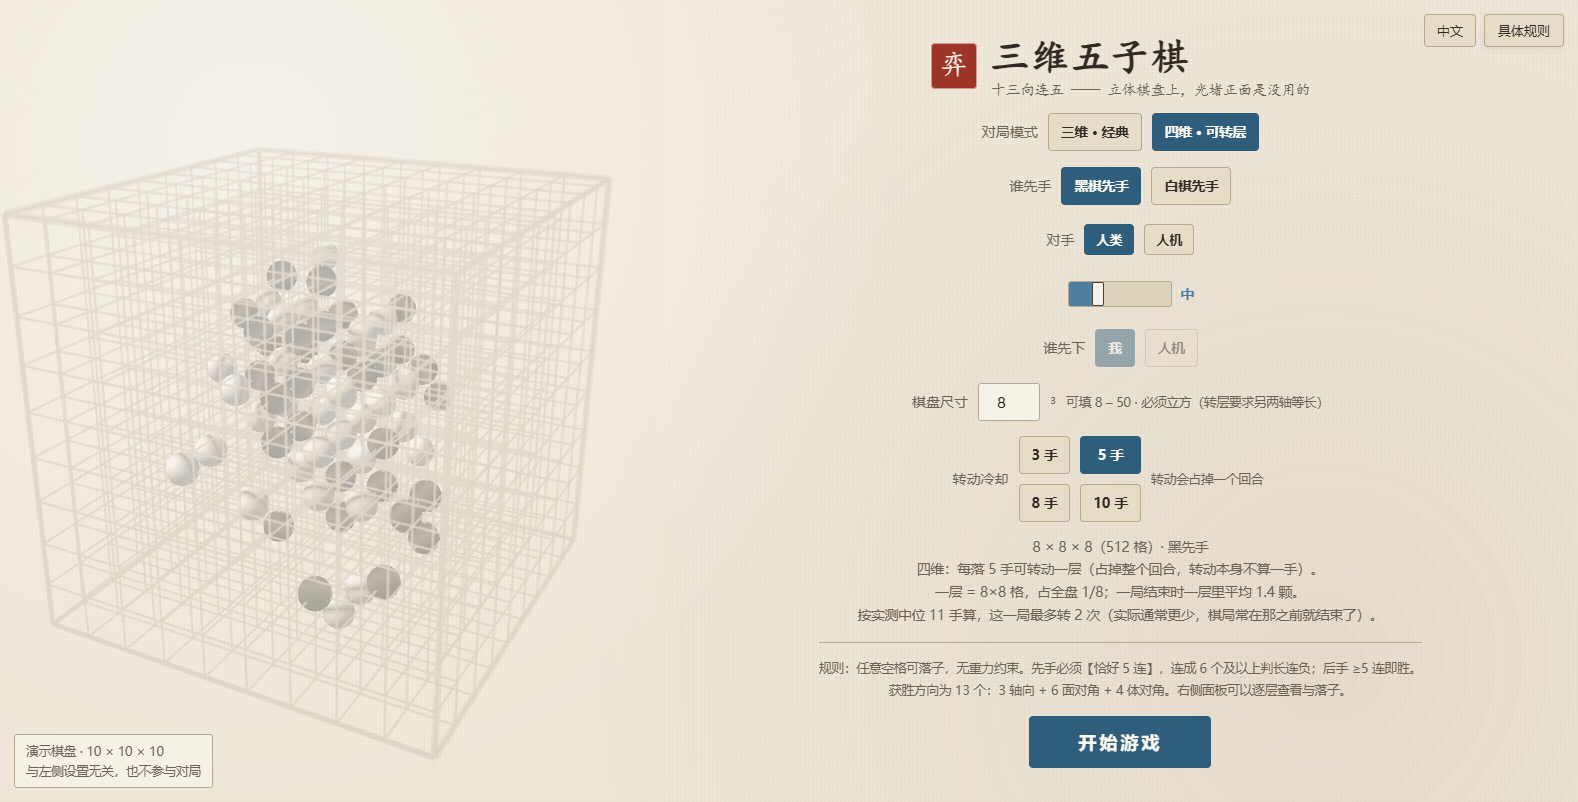
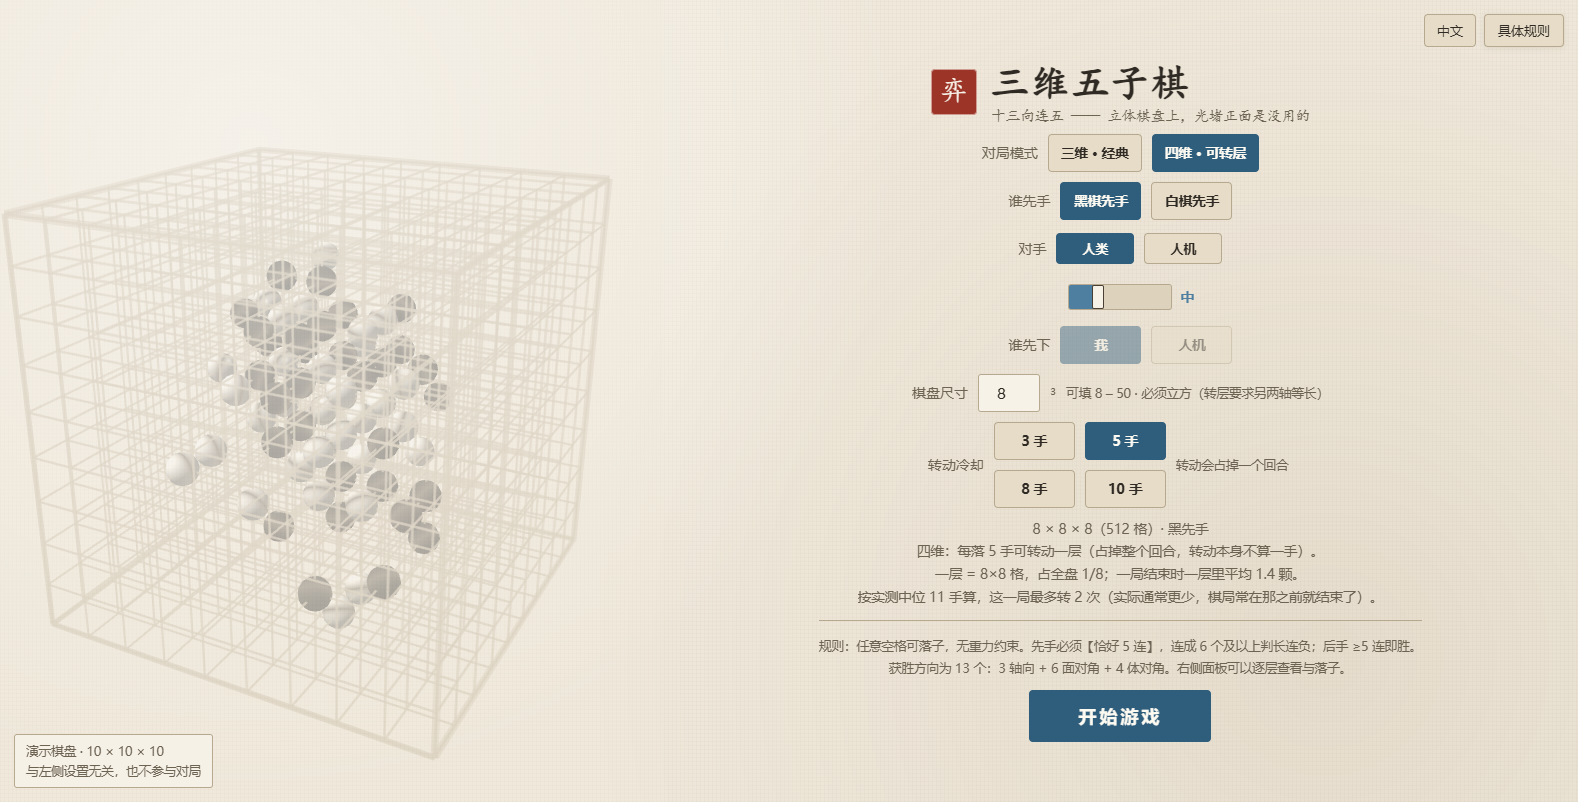
起始界面：行标同宽、按键等宽，行与行对齐（v2.10.6）
用户说"六国语言按键统一居中，不要长度上居中，按键要对齐，
每一个按键的长度不一定要和文字等长" —— 也就是现在每个键的宽度跟着文字走、
加上每行各自居中，整屏看着参差。两条规则解决：

1. **按键等宽**：`#setup .row button { min-width: 6em }`。短文案的键就都一样宽了；
   真长的（「三轴联动」、俄语那几条）还会自己撑开 —— 不能为了整齐把字挤到换行。

2. **行标同宽**：宽度按【当前语言里最长的那一条】实测，写进 `#setup` 的 `--labelW`
   （新增 `syncLabelWidth`，在 openSetup / applyLang / resize 时各量一次）。
   写死一个数不行 —— 六种语言的最长行标差一倍以上（中文「转动冷却」56px，
   俄语那条 150px 以上）。**用实测而不是 CSS**：`#setup` 的行是各自独立的 flex，
   CSS 里没有天然的"共用第一列"可套；改成 grid 要把整块 HTML 拍平，代价太大。

## 顺带还了一笔欠账

加完人机那两行之后，**英文和法语的「开始游戏」被挤出了 800px 高的视口**（法语超出 47px）——
这是我 v2.10.3/2.10.4 加行时欠下的，之前只看中文截图所以没发现。
这一版把整列收紧约 70px：行距 14→10、行槽 40→38、英文 #sizeSummary 108→96。
行高本身没动，"切模式时整列不跳"那条不变量不受影响。

browser-check 293 → 294，新增的那条断言**六种语言全量量一遍取最差的那个**
（第一版只量中文，过了，而英文截图里按钮是切掉的）。它还要先关掉触屏模拟再量：
前面测触屏时 pointer:coarse 成立、CSS 小屏那一档一直开着，按键和标题都小一档，
量出来比真实排版矮 41px，断言会变成空转 —— "测量环境没复位"这个坑写进 README 了。
量完把视口和触屏还原：不还原的话后面几张截图会在临时视口下拍
（实测过一次，7-人机对战.png 整张变成了 1280 宽）。

断言总数 40713 → 40714。

Changed region(s): [[0.4968, 0.0312, 0.9005, 0.9663]]

diff --git a/Web_Gomoku3D/index.html b/Web_Gomoku3D/index.html
@@ -321,11 +321,12 @@
   #setup {
     position: fixed; left: 42%; right: 0; top: 0; bottom: 0; z-index: 50;
     display: flex; flex-direction: column; align-items: center;
-    /* 【18 → 14】加「对手」和「谁先下」两行时，这一屏在 1280×800 的英文下把
-       「开始游戏」挤出了可视区（改动前按钮下面还有 40 多像素余量，截图对拍过）。
-       行距收 4px × 9 个间隔 ≈ 36px，正好把两行的高度还回来，而且不动行高本身 ——
-       按钮尺寸、每行 40px 的槽位、模式切换时"一个像素都不动"那条不变量全都不受影响。 */
-    gap: 14px; padding: 26px 30px; overflow-y: auto;
+    /* 【18 → 14 → 10】行距收过两次，两次都是为了「开始游戏」不能被挤出视口：
+       第一次（v2.10.0）是加人机那一行；第二次（v2.10.6）是行标同宽 + 拉条独立成行之后，
+       英文和法语的起始界面又超出了四十多像素（法语的规则摘要和按钮文案都最长）。
+       配合 .row 的槽位 40→38px、英文 #sizeSummary 108→96px，一共还回去约 70px。
+       行高本身没动，模式切换时整列不跳那条不变量不受影响。 */
+    gap: 10px; padding: 26px 30px; overflow-y: auto;
     /* 居中，但溢出时改为从顶部开始 —— 这是 safe 关键字的全部作用。
        没有它的话（也就是今天的行为），内容一旦高过视口，flex 的居中溢出会朝两头走，
        而滚动区只从内容起点算 → **顶部那段永远滚不到**，表现为"最上面几行看不见了"。
@@ -374,7 +375,7 @@
   .row { display: flex; align-items: center; gap: 10px; flex-wrap: wrap; justify-content: center; }
   /* 每一行占一个固定高度的槽位。三种模式相关的行（三维尺寸 / 四维尺寸 / 转动冷却）
      高度都一样，所以"显示哪几行"不影响总高。 */
-  #setup .row { min-height: 40px; }
+  #setup .row { min-height: 38px; }
   /* 模式相关的行：【保留槽位地藏起来】，不是 display:none。
      三维和四维显示的行数不一样（四维多一个"转动冷却"行），用 display:none 的话
      内容总高就变了，而父级是居中的 —— 于是整列重新居中，所有行一起上下跳。
@@ -410,7 +411,10 @@
      正是这一版要消掉的那类干扰。
      固定成粗体之后，按钮宽度只由文字内容决定，和选没选中无关。
      （#startBtn 不在任何 .row 里，所以它保留 .sel 的粗体，主按钮的分量不受影响。） */
-  #setup .row button { font-weight: 600; }
+  /* 【按钮等宽】键的宽度不再跟着文字走 —— 同一行里一宽一窄看着参差，行与行之间也对不上。
+     给一个下限之后，短文案的键就都一样宽了；真长的（「三轴联动」、俄语那几条）还会自己撑开，
+     那是应该的 —— 不能为了整齐把字挤到换行。 */
+  #setup .row button { font-weight: 600; min-width: 6em; }
   /* 行标宽度【贴着文字算】，不写死。
      【改之前是 width: 96px（英文 138px）】：那个数照最长的那一行（「转动冷却」/
      "Rotation cooldown"）量，然后对每一行都生效 —— 于是 "Mode" 白占 100px
@@ -425,7 +429,13 @@
      四个行标的右边缘实测是 143.3 / 162.5 / 127.4 / 128.8，本来就不在一条竖线上。
 
      nowrap 是必须的：不写的话行标自己会折行、把那一行撑高一截。 */
-  .rowLabel { color: var(--dim); text-align: right; flex: 0 0 auto; white-space: nowrap; }
+  /* 【行标同宽】宽度由 JS 按【当前语言里最长的那一条】实测后写进 --labelW（见 syncLabelWidth）。
+     行标不同宽的话，每一行里按键的起点都不一样，整屏看着参差；
+     而写死一个数又不行 —— 六种语言的最长行标差一倍以上（中文「转动冷却」56px，
+     俄语「Перезарядка поворота」要 150px 以上），写死哪个都会在别的语言里撑破或留白。
+     没测出来时（DOM 桩环境）退回贴合文字。 */
+  .rowLabel { color: var(--dim); text-align: right; flex: 0 0 auto; white-space: nowrap;
+              width: var(--labelW, auto); }
 
   /* 尺寸输入。原来是两排固定尺寸按钮（三维 15/20/25/30/40/50、四维 5/6/8/10/15/20），
      现在改成直接填数字：范围由 BoardLimits 统一约束，越界在失焦时夹回来并给一行提示。 */
@@ -724,7 +734,7 @@
   /* 同样的信息量，英文的字符数比中文多，固定的 92px 会更早开始内部滚动。
      这里可以放宽（它只影响总高，不影响"两种模式高度相等"——那个不变量靠的是
      这块高度【恒定】，而不是靠它恰好是 92）。 */
-  html.lang-en #sizeSummary { height: 108px; }
+  html.lang-en #sizeSummary { height: 96px; }
 
   /* ---------- 竖屏：左右分栏翻成上下分栏 ----------
      判据用 CSS 的 orientation，不用 JS 量 innerWidth/innerHeight：纯 CSS 在 JS 跑起来
@@ -6661,6 +6671,8 @@ const Game = {
     this.syncCoolRow();
     // 档位名换了语言就要重刷（它是 say() 写的，applyStatic 管不到）
     this.syncAiLevel();
+    // 行标换了语言、宽度就变了，同宽那条得重量一次
+    this.syncLabelWidth();
     this.refreshSetupSummary();
     // 这两个是 JS 写的、不挂 data-i18n 的元素，applyStatic 管不到它们。
     // refreshHint 只在 WebGL2 失败时动手，正常情况下它直接返回。
@@ -7266,6 +7278,7 @@ const Game = {
     this.syncCoolRow();
     this.syncOrderRow();
     this.syncAiLevel();
+    this.syncLabelWidth();
     this.refreshSetupSummary();
     this.ensurePreview();
     this.uploadPreviewInstances();
@@ -8905,6 +8918,33 @@ const Game = {
   },
 
   /**
+   * 把所有行标钉成同宽 —— 宽度按【当前语言里最长的那一条】实测。
+   *
+   * 【为什么必须实测，不能写死】六种语言里最长的行标差一倍以上：中文最长是「转动冷却」，
+   * 英文是「Rotation cooldown」，俄语更长。写死任何一个数，都会在另一种语言里
+   * 要么撑破（那一行折行）、要么白留一大块。
+   *
+   * 【为什么要点名一个个取，不用 querySelectorAll(".rowLabel")】DOM 桩只认五个选择器，
+   * 类选择器在桩里会静默返回空数组 —— 于是这段在任何测试里都是空操作，
+   * 只有真浏览器里才跑。点名取则桩里也能走一遍（量出来是桩的假尺寸，但不会静默跳过）。
+   */
+  syncLabelWidth() {
+    const setup = this.el.setup;
+    if (!setup || !setup.style || typeof setup.style.setProperty !== "function") return;
+    const ids = ["rowLabelMode", "rowLabelFirst", "rowLabelAi", "rowLabelOrder",
+                 "rowLabelSize3d", "rowLabelSize4d", "rowLabelCool"];
+    let w = 0;
+    for (const id of ids) {
+      const el = this.el[id];
+      if (!el || typeof el.getBoundingClientRect !== "function") continue;
+      const r = el.getBoundingClientRect();
+      if (r && isFinite(r.width) && r.width > w) w = r.width;
+    }
+    if (!(w > 0)) return;
+    setup.style.setProperty("--labelW", Math.ceil(w) + "px");
+  },
+
+  /**
    * 把拉条的外观刷成当前档位：填充比例、颜色、右边的档位名。
    * **两件事都只写在父元素上**（--pct / data-lv），轨道的渐变和滑块的颜色都由 CSS 读它们 ——
    * 原生滑块的轨道和滑块是伪元素，写不进内联样式；写在父元素的自定义属性上才能被它们继承到。
@@ -9139,6 +9179,9 @@ const Game = {
   resize() {
     const r = this.el.view.getBoundingClientRect();
     this.camera.frameBoard(r.width / Math.max(1, r.height), true);
+    // 视口变了，起始界面那一列的可用宽度也变了 —— 行标重新量一次；
+    // 顺带把 --compact 也重读（它决定按键要不要收一档，同样影响这一行的宽度）
+    if (this.setupOpen) this.syncLabelWidth();
     // 平移量的边界是"半个视口"，转屏会改视口尺寸 —— 不重新夹一次的话，
     // 横屏里拖出来的平移量在竖屏下可能已经越界（棋盘贴边甚至露不出一半）
     this.pan3dBy(0, 0);

diff --git a/README.en.md b/README.en.md
@@ -7,7 +7,7 @@
 
 [![Play online](https://img.shields.io/badge/Play_online-awua--dcm.github.io-2f6f4e?style=for-the-badge)](https://awua-dcm.github.io/gomoku-3d-4d/)
 [![Form](https://img.shields.io/badge/form-single_file_%C2%B7_zero_deps-8a6d3b?style=flat-square)](Web_Gomoku3D/index.html)
-[![Assertions](https://img.shields.io/badge/assertions-40713_passing-2f6f4e?style=flat-square)](_verify/run-all.sh)
+[![Assertions](https://img.shields.io/badge/assertions-40714_passing-2f6f4e?style=flat-square)](_verify/run-all.sh)
 [![License](https://img.shields.io/badge/license-MIT-4c8bf5?style=flat-square)](LICENSE)
 
 The online demo serves the very same `index.html` that is in this repository, hosted on
@@ -81,7 +81,7 @@ bash _verify/run-all.sh
 **All you need is node** — no Unity, no .NET, no npm packages. Nine steps; expected result:
 
 ```
-11733 + 19408 + 98 + 114 + 107 + 8845 + 115 + 293 = 40713 assertions, all green
+11733 + 19408 + 98 + 114 + 107 + 8845 + 115 + 294 = 40714 assertions, all green
 ```
 
 Step 9 (a real headless-browser check) is optional: if Chrome or Edge isn't installed it is
@@ -98,7 +98,7 @@ To run one piece on its own:
 | `node Web_Gomoku3D/tests/dom-smoke.test.mjs` | 107 | UI against a DOM stub (includes the language switch, gesture and reset edge cases, drag-direction convention) |
 | `node Web_Gomoku3D/tests/online.test.mjs` | 8845 | Networking kernel, cell-by-cell against the web build (1156 cases) |
 | `node Web_Gomoku3D/tests/online-http.test.mjs` | 115 | Networking HTTP layer (loopback) |
-| `node _verify/browser-check.mjs` | 293 | Real browser (GLSL compilation, layout geometry, console errors, six-language screen sweep, synthesized multi-touch, a real-timer game against the computer) |
+| `node _verify/browser-check.mjs` | 294 | Real browser (GLSL compilation, layout geometry, console errors, six-language screen sweep, synthesized multi-touch, a real-timer game against the computer) |
 
 The two networking tests run inside step 8 and **cannot be skipped**.
 
@@ -256,6 +256,7 @@ is in [Web_Gomoku3D/README.md](Web_Gomoku3D/README.md) — in Chinese.
 
 ### 2026.09.27
 
+- 🎨 **v2.10.6** Start screen: in all six languages the row labels share one column width and the buttons have a uniform minimum width, so every row lines up; the column was tightened to keep "Start game" above the fold
 - 🎨 **v2.10.5** Start screen: the strength slider is centred; with "Human" selected it is now dimmed and non-interactive rather than hidden (the same treatment the rotation-cooldown buttons get in 3D mode)
 - 🎨 **v2.10.4** Start screen: the strength slider now sits on its own row below the Human / Computer switch, and the two buttons are centred
 - 🐛 **v2.10.3** The strength slider is now genuinely draggable (a native range input, square corners like every other button) and its fill deepens one step per level; the opponent row is now a Human / Computer switch, with the slider appearing only once you pick the computer; all six languages updated

diff --git a/README.md b/README.md
@@ -7,7 +7,7 @@
 
 [![在线试玩](https://img.shields.io/badge/%E5%9C%A8%E7%BA%BF%E8%AF%95%E7%8E%A9-awua--dcm.github.io-2f6f4e?style=for-the-badge)](https://awua-dcm.github.io/gomoku-3d-4d/)
 [![形态](https://img.shields.io/badge/%E5%BD%A2%E6%80%81-%E5%8D%95%E6%96%87%E4%BB%B6_%C2%B7_%E9%9B%B6%E4%BE%9D%E8%B5%96-8a6d3b?style=flat-square)](Web_Gomoku3D/index.html)
-[![断言](https://img.shields.io/badge/%E6%96%AD%E8%A8%80-40713_%E9%A1%B9%E5%85%A8%E7%BB%BF-2f6f4e?style=flat-square)](_verify/run-all.sh)
+[![断言](https://img.shields.io/badge/%E6%96%AD%E8%A8%80-40714_%E9%A1%B9%E5%85%A8%E7%BB%BF-2f6f4e?style=flat-square)](_verify/run-all.sh)
 [![许可](https://img.shields.io/badge/license-MIT-4c8bf5?style=flat-square)](LICENSE)
 
 在线试玩跑的就是仓库里这份 `index.html` 原件，托管在 GitHub Pages —— 没有构建步骤，
@@ -80,7 +80,7 @@ bash _verify/run-all.sh
 九步，期望结果：
 
 ```
-11733 + 19408 + 98 + 114 + 107 + 8845 + 115 + 293 = 40713 项断言全绿
+11733 + 19408 + 98 + 114 + 107 + 8845 + 115 + 294 = 40714 项断言全绿
 ```
 
 第 9 步（真实无头浏览器检查）是可选的：本机没装 Chrome/Edge 会自动跳过，不算失败。
@@ -97,7 +97,7 @@ bash _verify/run-all.sh
 | `node Web_Gomoku3D/tests/dom-smoke.test.mjs` | 107 | 界面桩环境（含六语言文案齐全性、手势与复位的边界值、拖拽方向约定） |
 | `node Web_Gomoku3D/tests/online.test.mjs` | 8845 | 联机内核：和网页版逐格对拍 1156 组 |
 | `node Web_Gomoku3D/tests/online-http.test.mjs` | 115 | 联机 HTTP 层（本机 loopback） |
-| `node _verify/browser-check.mjs` | 293 | 真实浏览器（GLSL 编译、布局几何、控制台报错、六语言逐屏扫描、合成多点触摸、真定时器下的人机对局） |
+| `node _verify/browser-check.mjs` | 294 | 真实浏览器（GLSL 编译、布局几何、控制台报错、六语言逐屏扫描、合成多点触摸、真定时器下的人机对局） |
 
 后两项联机测试在第 8 步里跑，**不可跳过**（端口是随机挑的空闲端口）。
 另有三个注入验证脚本，专门证明上面那些检查**真的会红**：
@@ -223,6 +223,7 @@ bash _verify/run-all.sh
 
 ### 2026.09.27
 
+- 🎨 **v2.10.6** 调整起始界面：六种语言下行标同宽、按键等宽，行与行对齐；顺带把整列收紧，让「开始游戏」在 800px 高的窗口里也回到屏幕内
 - 🎨 **v2.10.5** 调整起始界面：强度拉条居中；没选「人机」时改为淡显、不可点（不再隐藏，和转动冷却在三维下的处理同一套）
 - 🎨 **v2.10.4** 调整起始界面：强度拉条移到「对手」下方单独一行，人类 / 人机两个键居中
 - 🐛 **v2.10.3** 强度拉条改成真的能拖（原生滑块、方角、和别的按钮同一套），拖动时颜色一档档变重；「对手」拆成 人类/人机 两步，选了人机才出现拉条；「谁先下」的「电脑」改为「人机」

diff --git a/Web_Gomoku3D/README.md b/Web_Gomoku3D/README.md
@@ -64,7 +64,7 @@
 
 ### 电脑对手
 
-起始界面上「对手」一行是个开关：**人类 / 人机**，两个键居中。选了「人机」，
+起始界面上「对手」一行是个开关：**人类 / 人机**。选了「人机」，
 **它下面那一行**才出现强度拉条，五档 **低 / 中 / 高 / 极高 / 极限**，
 拖动时填充色一档档变重（灰 → 蓝 → 深蓝 → 金 → 朱砂）。
 
@@ -683,3 +683,25 @@ bash _verify/run-all.sh                    # 以上全部 + 向量冻结锁（C#
 | 长方体下 `board.size` 会抛异常 | 这是**刻意**的：返回 `nx` 会让"只改了三个轴里的一个"这类漏改静默地用一个错的数继续跑。需要尺寸的地方一律用 `dims` / `nx` / `ny` / `nz`。这次改动中它已经抓到过一处漏改（`refreshTexts`）。 |
 | 起始界面的演示盘是装饰 | 不是一局合法的棋，也不经过规则内核；它和玩家的棋局是两块不同的 `Board3D`。 |
 | 从对局中点「设置」再点「开始游戏」会重开一局 | 原有行为，没有改。左边现在摆着演示盘，铭牌就是为此加的；但"棋局会被丢掉"这一点本身没有变，想要"改完设置继续下"需要另外做。 |
+
+### 起始界面的对齐（v2.10.6）
+
+两条规则，都是为了让行与行对得上：
+
+- **行标同宽**：宽度按【当前语言里最长的那一条】实测，结果写进 `#setup` 的 `--labelW`
+  （`syncLabelWidth`，在 `openSetup` / `applyLang` / `resize` 时各量一次）。
+  写死一个数不行 —— 六种语言的最长行标差一倍以上（中文「转动冷却」56px，
+  俄语那条 150px 以上），写死哪个都会在别的语言里撑破或白留一块。
+  **为什么用实测而不是 CSS**：`#setup` 的行是各自独立的 flex，CSS 里没有一个
+  天然的"共用第一列"可以套（改用 grid 要把整块 HTML 拍平，代价太大）。
+- **按键等宽**：`#setup .row button { min-width: 6em }`。短文案的键就都一样宽了；
+  真长的（「三轴联动」、俄语那几条）还会自己撑开 —— 不能为了整齐把字挤到换行。
+
+顺带把整列收紧了约 70px（行距 14→10、行槽 40→38、英文 `#sizeSummary` 108→96）：
+加完人机两行之后，**英文和法语的「开始游戏」被挤出了 800px 高的视口**（法语超出 47px）。
+browser-check 新增一条断言，**六种语言全量量一遍取最差的那个** —— 第一版只量了中文，
+过了，而英文那张截图里按钮是切掉的。
+
+> 那条断言还要先**关掉触屏模拟**再量：前面测触屏时 `pointer: coarse` 成立，
+> CSS 的小屏那一档一直开着，按键和标题都小一档，量出来比真实排版矮 41px，
+> 断言会变成空转。这个坑值得记 —— "测量环境没复位"能让一条好好的断言静默失效。

diff --git a/打开流程.md b/打开流程.md
@@ -52,7 +52,7 @@ bash _verify/run-all.sh
 
 九步（第 9 步可选）。**不需要 Unity，也不需要 .NET，只要有 node。**
 
-期望结果：11733 + 19408 + 98 + 114 + 107 + 8845 + 115 + 293 = **40713 项断言全绿**。
+期望结果：11733 + 19408 + 98 + 114 + 107 + 8845 + 115 + 294 = **40714 项断言全绿**。
 
 单跑某一项：
 
@@ -65,7 +65,7 @@ bash _verify/run-all.sh
 | `node Web_Gomoku3D/tests/dom-smoke.test.mjs` | 107（界面桩环境，含六语言文案齐全性） |
 | `node Web_Gomoku3D/tests/online.test.mjs` | 8845（联机内核与网页版逐格对拍） |
 | `node Web_Gomoku3D/tests/online-http.test.mjs` | 115（联机 HTTP 层） |
-| `node _verify/browser-check.mjs` | 293（真实无头浏览器；没装浏览器会自动跳过） |
+| `node _verify/browser-check.mjs` | 294（真实无头浏览器；没装浏览器会自动跳过） |
 
 第 9 步的截图落在 `_verify/shots/`。
 
@@ -97,4 +97,4 @@ shell 会把它拆成多个参数，然后拼出一个不存在的路径并**静
 | 英文的术语是否前后一致 | 同上；术语表在 `Web_Gomoku3D/README.md` |
 | **电脑对手的棋力手感** | 开一局人机，三档各下几盘。自动检查只验到"合法、不卡死、算得快、三档强弱关系对"，**"弱档是不是真的能被新手赢""中档是不是还有点意思"只能你自己下**。参考图 `_verify/shots/7-人机对战.png` |
 
-其余部分（40713 项断言）都已经真实跑过并通过。
+其余部分（40714 项断言）都已经真实跑过并通过。
